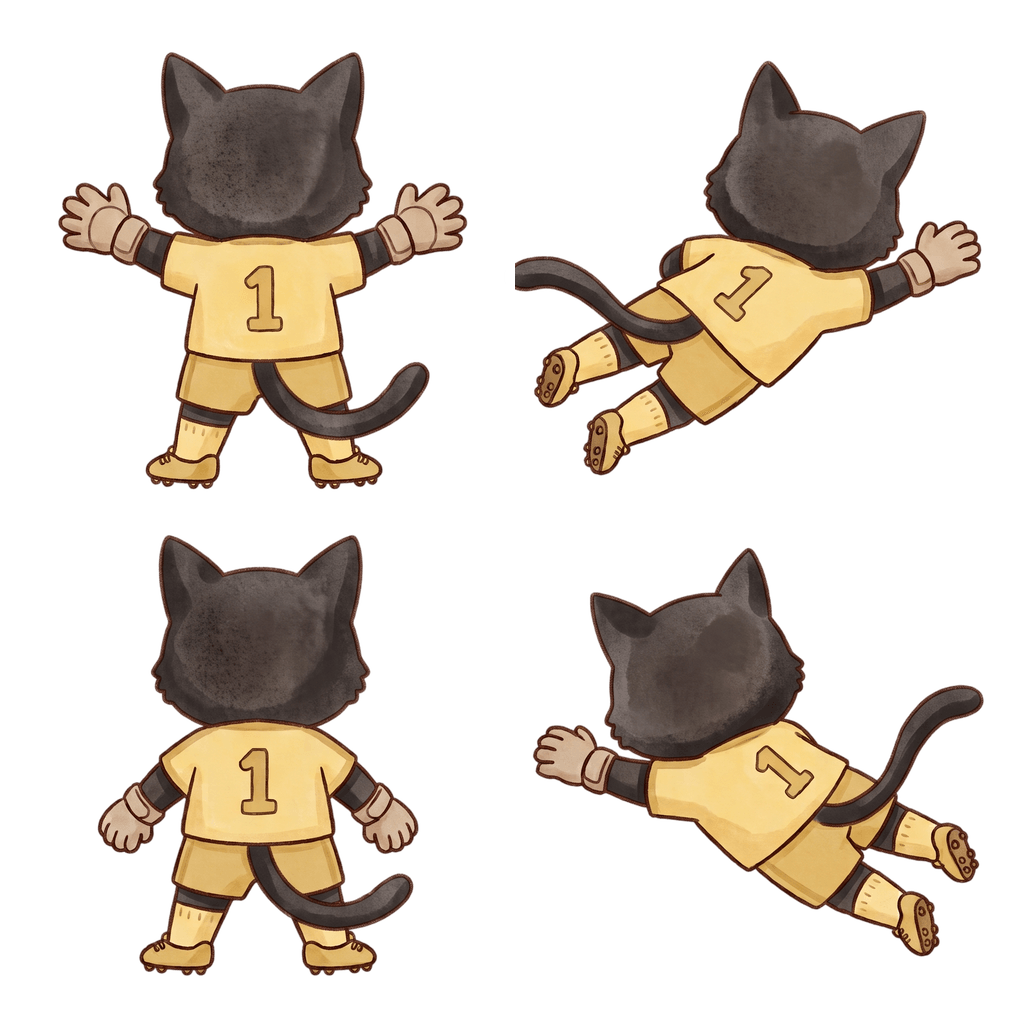
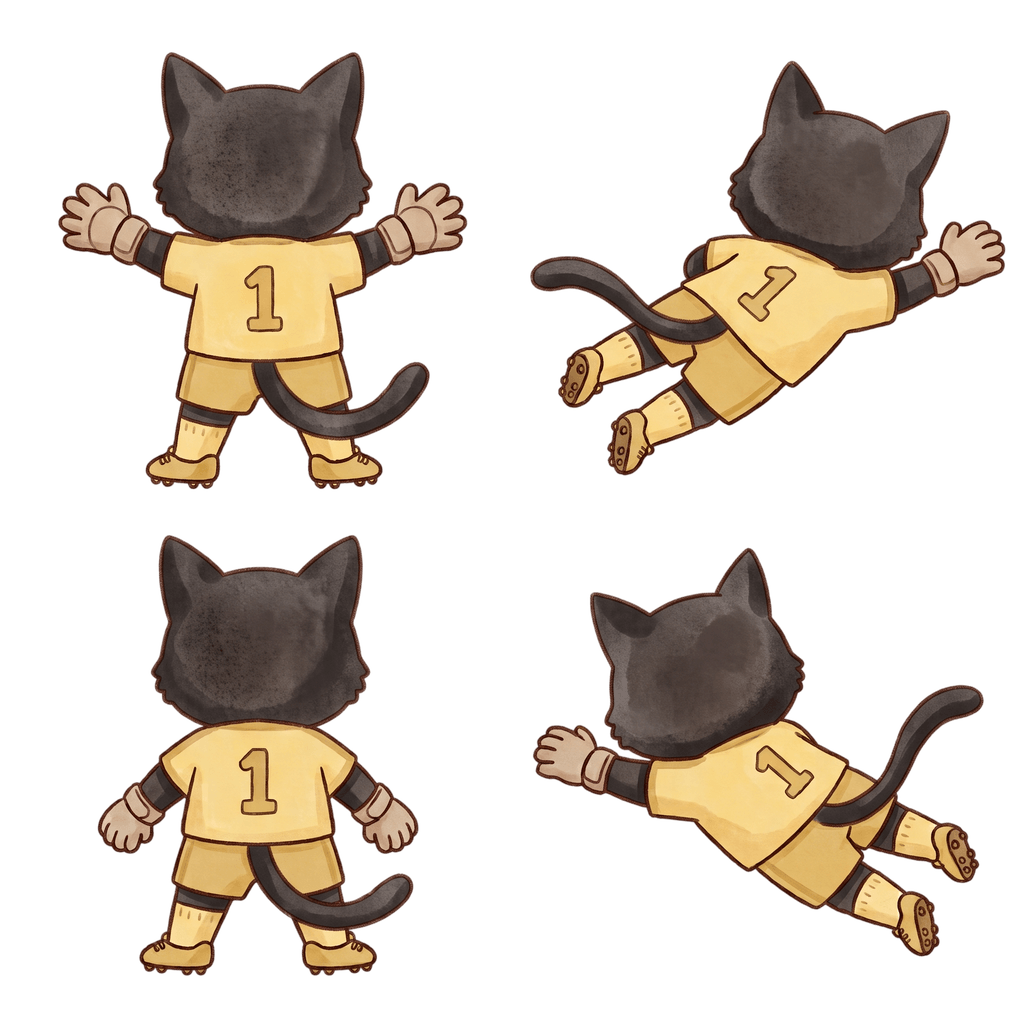
✨ feat: handle bg animation with cloud and update og image

Changed region(s): [[0.5, 0.0625, 1.0, 0.4688]]

diff --git a/src/game/MainGame.ts b/src/game/MainGame.ts
@@ -28,6 +28,10 @@ export class MainGame extends Scene {
   private isTensionMode: boolean = false;
   private bgTintTween?: Phaser.Tweens.Tween;
   private bgMusic?: Phaser.Sound.BaseSound;
+  private skyGraphics!: Phaser.GameObjects.Graphics;
+  private clouds: Phaser.GameObjects.Sprite[] = [];
+  private skyColorProgress: number = 0;
+  private skyColorTween?: Phaser.Tweens.Tween;
 
   constructor() {
     super("MainGame");
@@ -40,6 +44,8 @@ export class MainGame extends Scene {
     this.isGameStarted = false;
     this.isTensionMode = false;
     this.bgTintTween = undefined;
+    this.skyColorProgress = 0;
+    this.skyColorTween = undefined;
 
     // Load initial mute state from localStorage
     const isMuted = localStorage.getItem("game-muted") === "true";
@@ -52,16 +58,33 @@ export class MainGame extends Scene {
     const width = this.cameras.main.width;
     const height = this.cameras.main.height;
 
+    // Sky Background
+    this.skyGraphics = this.add.graphics();
+    this.skyGraphics.setDepth(-2);
+
+    // Clouds Spawning
+    this.clouds = [];
+    const cloudCount = 5;
+    for (let i = 0; i < cloudCount; i++) {
+      const frameVal = Phaser.Math.Between(0, 3);
+      const cloud = this.add.sprite(0, 0, "clouds", frameVal);
+      cloud.setDepth(-1);
+      this.clouds.push(cloud);
+    }
+
     // Background
     this.bg = this.add.image(width / 2, height / 2, "bg_stadium");
+    this.bg.setDepth(0);
 
     // Goalkeeper (at the bottom)
     this.goalkeeper = this.add.sprite(width / 2, height - 150, "goalkeeper", 2);
     this.goalkeeper.setOrigin(0.5, 1); // Anchor at bottom center
+    this.goalkeeper.setDepth(2);
 
     // Kicker (at the middle-top, standing on the pitch)
     this.kicker = this.add.sprite(width / 2, height * 0.6, "kicker", 0);
     this.kicker.setOrigin(0.5, 1);
+    this.kicker.setDepth(1);
 
     // Register kicker animations
     this.anims.create({
@@ -151,6 +174,11 @@ export class MainGame extends Scene {
   }
 
   updateLayout(width: number, height: number) {
+    this.drawSky();
+    this.clouds.forEach(cloud => {
+      this.animateCloud(cloud, false);
+    });
+
     this.bg.setPosition(width / 2, height / 2);
     const scaleX = width / this.bg.width;
     const scaleY = height / this.bg.height;
@@ -247,6 +275,19 @@ export class MainGame extends Scene {
       const remaining = this.timer;
       const intensity = GAME_CONSTANTS.TENSION_SHAKE_BASE_INTENSITY - (remaining * 0.001);
       this.cameras.main.shake(1000, Math.max(0.001, intensity));
+
+      // Sky sunset gradient transition
+      if (!this.skyColorTween) {
+        this.skyColorTween = this.tweens.add({
+          targets: this,
+          skyColorProgress: 1.0,
+          duration: 2000, // Transition to red sunset over 2 seconds
+          ease: "Quad.easeOut",
+          onUpdate: () => {
+            this.drawSky();
+          }
+        });
+      }
 
       // Background pulsing orange-red (桔紅色) tint tween
       if (!this.bgTintTween) {
@@ -367,6 +408,7 @@ export class MainGame extends Scene {
       football.setScale(minScale); // Very small at start
       football.clearTint();
       football.rotation = 0;
+      football.setDepth(1.5); // One layer above kicker (depth 1), but below goalkeeper (depth 2)
 
       // Hitbox padding for mobile (放寬為寬度的 1.5 倍以降低點擊難度)
       // Reuse the sharedHitArea to prevent Geometry instantiation per spawn
@@ -609,5 +651,89 @@ export class MainGame extends Scene {
     if (this.goalkeeper) {
       this.goalkeeper.setScale(this.gkBaseScale);
     }
+  }
+
+  private drawSky() {
+    const width = this.cameras.main.width;
+    const height = this.cameras.main.height;
+
+    // Daylight sky colors (vibrant summer daylight blue gradient)
+    const normalTop = 0x0288d1;
+    const normalBottom = 0x81d4fa;
+
+    // Sunset tension sky colors
+    const tensionTop = 0x1f0212;
+    const tensionBottom = 0xd84315;
+
+    const t = this.skyColorProgress;
+    const topColor = this.interpolateColor(normalTop, tensionTop, t);
+    const bottomColor = this.interpolateColor(normalBottom, tensionBottom, t);
+
+    this.skyGraphics.clear();
+    this.skyGraphics.fillGradientStyle(topColor, topColor, bottomColor, bottomColor, 1);
+    this.skyGraphics.fillRect(0, 0, width, height);
+  }
+
+  private interpolateColor(color1: number, color2: number, t: number): number {
+    const r1 = (color1 >> 16) & 0xff;
+    const g1 = (color1 >> 8) & 0xff;
+    const b1 = color1 & 0xff;
+
+    const r2 = (color2 >> 16) & 0xff;
+    const g2 = (color2 >> 8) & 0xff;
+    const b2 = color2 & 0xff;
+
+    const r = Math.floor(r1 + (r2 - r1) * t);
+    const g = Math.floor(g1 + (g2 - g1) * t);
+    const b = Math.floor(b1 + (b2 - b1) * t);
+
+    return (r << 16) | (g << 8) | b;
+  }
+
+  private animateCloud(cloud: Phaser.GameObjects.Sprite, startFromLeft: boolean) {
+    const width = this.cameras.main.width;
+    const height = this.cameras.main.height;
+
+    // Randomize cloud scale (1200px width is too large, scaling to 0.08 - 0.22)
+    const scale = Phaser.Math.FloatBetween(0.08, 0.22);
+    cloud.setScale(scale);
+
+    // Randomize opacity
+    cloud.setAlpha(Phaser.Math.FloatBetween(0.3, 0.8));
+
+    // Randomize Y position in the sky (between 5% and 40% height of screen)
+    const y = Phaser.Math.FloatBetween(height * 0.05, height * 0.4);
+    cloud.setY(y);
+
+    const cloudWidth = cloud.width * scale;
+    let startX: number;
+    if (startFromLeft) {
+      startX = -cloudWidth / 2;
+    } else {
+      // For initial setup / resize updates, distribute clouds randomly across screen width
+      startX = Phaser.Math.FloatBetween(-cloudWidth / 2, width + cloudWidth / 2);
+    }
+    cloud.setX(startX);
+
+    const endX = width + cloudWidth / 2;
+    const distance = endX - startX;
+
+    // Speed scales with scale for parallax effect (bigger clouds move faster)
+    const speed = scale * 120 + 15; // px per second
+    const duration = (distance / speed) * 1000; // in milliseconds
+
+    this.tweens.killTweensOf(cloud);
+
+    this.tweens.add({
+      targets: cloud,
+      x: endX,
+      duration: duration,
+      ease: "Linear",
+      onComplete: () => {
+        // Change frame to random cloud style on recycle, and start from offscreen left
+        cloud.setFrame(Phaser.Math.Between(0, 3));
+        this.animateCloud(cloud, true);
+      }
+    });
   }
 }

diff --git a/index.html b/index.html
@@ -3,8 +3,14 @@
   <head>
     <meta charset="UTF-8" />
     <link rel="icon" type="image/png" href="/favicon.png" />
-    <meta name="viewport" content="width=device-width, initial-scale=1.0, viewport-fit=cover" />
-    <meta name="description" content="Football Save - Tap to save the incoming footballs! A cute cartoon-style mobile football mini-game." />
+    <meta
+      name="viewport"
+      content="width=device-width, initial-scale=1.0, viewport-fit=cover"
+    />
+    <meta
+      name="description"
+      content="Football Save - Tap to save the incoming footballs! A cute cartoon-style mobile football mini-game."
+    />
     <meta name="author" content="Roy Sung" />
     <meta name="designer" content="Roy Sung" />
     <meta name="owner" content="Roy Sung" />
@@ -13,17 +19,35 @@
 
     <!-- Open Graph / Facebook Metadata -->
     <meta property="og:type" content="website" />
-    <meta property="og:url" content="https://football-save-game.roysunghan.workers.dev/" />
+    <meta
+      property="og:url"
+      content="https://football-save-game.roysunghan.workers.dev/"
+    />
     <meta property="og:title" content="Football Save ⚽" />
-    <meta property="og:description" content="Football Save - Tap to save the incoming footballs! A cute cartoon-style mobile football mini-game." />
-    <meta property="og:image" content="https://football-save-game.roysunghan.workers.dev/assets/og_image.jpg" />
+    <meta
+      property="og:description"
+      content="Football Save - Tap to save the incoming footballs! A cute cartoon-style mobile football mini-game."
+    />
+    <meta
+      property="og:image"
+      content="https://football-save-game.roysunghan.workers.dev/assets/og_image.png"
+    />
 
     <!-- Twitter Card Metadata -->
     <meta name="twitter:card" content="summary_large_image" />
-    <meta name="twitter:url" content="https://football-save-game.roysunghan.workers.dev/" />
+    <meta
+      name="twitter:url"
+      content="https://football-save-game.roysunghan.workers.dev/"
+    />
     <meta name="twitter:title" content="Football Save ⚽" />
-    <meta name="twitter:description" content="Football Save - Tap to save the incoming footballs! A cute cartoon-style mobile football mini-game." />
-    <meta name="twitter:image" content="https://football-save-game.roysunghan.workers.dev/assets/og_image.jpg" />
+    <meta
+      name="twitter:description"
+      content="Football Save - Tap to save the incoming footballs! A cute cartoon-style mobile football mini-game."
+    />
+    <meta
+      name="twitter:image"
+      content="https://football-save-game.roysunghan.workers.dev/assets/og_image.png"
+    />
 
     <title>Football Save ⚽</title>
   </head>

diff --git a/src/components/GameOverScreen.tsx b/src/components/GameOverScreen.tsx
@@ -110,7 +110,7 @@ export function GameOverScreen({
                   placeholder={t("leaderboard.nicknamePlaceholder")}
                   className="game-input"
                   maxLength={GAME_CONSTANTS.LEADERBOARD_MAX_NAME_LENGTH}
-                  disabled={submittingScore}
+                  disabled={submittingScore || !showButtons}
                 />
                 {submitError && (
                   <div className="text-red-500 text-xs font-bold mb-2">
@@ -119,7 +119,7 @@ export function GameOverScreen({
                 )}
                 <button
                   onClick={handleSubmitScore}
-                  disabled={submittingScore || !nickname.trim()}
+                  disabled={submittingScore || !nickname.trim() || !showButtons}
                   className="game-btn game-btn-secondary py-2 px-6 text-md w-full"
                 >
                   {submittingScore ? t("leaderboard.submitting") : t("leaderboard.submit")}
@@ -143,6 +143,7 @@ export function GameOverScreen({
                 loadLeaderboard();
                 setViewState("leaderboard");
               }}
+              disabled={!showButtons}
               className={`game-btn game-btn-primary py-2.5 px-6 text-md w-[85%] mt-2 ${delayedBtnClass}`}
             >
               {t("leaderboard.title")}
@@ -163,6 +164,7 @@ export function GameOverScreen({
             {/* Back to Summary Button */}
             <button
               onClick={() => setViewState("summary")}
+              disabled={!showButtons}
               className={`game-btn game-btn-secondary py-2.5 px-6 text-md w-[85%] mt-2 ${delayedBtnClass}`}
             >
               {t("backToMenu")}
@@ -181,6 +183,7 @@ export function GameOverScreen({
         <div className={`footer-btn-container ${delayedBtnClass}`}>
           <button
             onClick={restartGame}
+            disabled={!showButtons}
             className="btn-round-cyan"
             title={t("restartGame")}
           >
@@ -190,6 +193,7 @@ export function GameOverScreen({
           </button>
           <button
             onClick={backToMenu}
+            disabled={!showButtons}
             className="btn-round-cyan"
             title={t("backToMenu")}
           >

diff --git a/src/game/BootScene.ts b/src/game/BootScene.ts
@@ -11,6 +11,7 @@ export class BootScene extends Scene {
     const v = APP_VERSION; // use package.json version to allow browser caching
     this.load.image("bg_stadium", `/assets/bg_stadium.png?v=${v}`);
     this.load.image("football", `/assets/football.png?v=${v}`);
+    this.load.image("clouds", `/assets/cloud-sprite.png?v=${v}`);
     this.load.spritesheet("goalkeeper", `/assets/goalkeeper_sheet.png?v=${v}`, {
       frameWidth: 512,
       frameHeight: 512,
@@ -24,6 +25,15 @@ export class BootScene extends Scene {
   }
 
   create() {
+    const texture = this.textures.get("clouds");
+    if (texture) {
+      // Define custom frames to avoid clipping the sleeping cat (Frame 3)
+      // and align the clouds perfectly based on pixel bounds analysis
+      texture.add(0, 0, 310, 122, 598, 396);
+      texture.add(1, 0, 1364, 112, 928, 406);
+      texture.add(2, 0, 75, 712, 1068, 558);
+      texture.add(3, 0, 1334, 609, 981, 663);
+    }
     this.scene.start("MainGame");
   }
 }

diff --git a/src/game/PhaserGame.tsx b/src/game/PhaserGame.tsx
@@ -8,12 +8,14 @@ export const PhaserGame = memo(() => {
     useEffect(() => {
         if (!gameRef.current) {
             gameRef.current = new Game(config);
+            (window as any).game = gameRef.current;
         }
 
         return () => {
             if (gameRef.current) {
                 gameRef.current.destroy(true);
                 gameRef.current = null;
+                delete (window as any).game;
             }
         };
     }, []);

diff --git a/src/App.css b/src/App.css
@@ -1029,3 +1029,16 @@
   width: 16px;
   height: 16px;
 }
+
+/* Disabled button interactions and styling */
+.game-btn:disabled,
+.btn-round-cyan:disabled {
+  pointer-events: none !important;
+  cursor: not-allowed;
+  transform: none !important;
+}
+
+.game-btn:disabled {
+  opacity: 0.6;
+}
+

diff --git a/src/constants.ts b/src/constants.ts
@@ -63,7 +63,7 @@ export const GAME_CONSTANTS = {
   FEEDBACK_GOOD: 5,
 
   // Button delay on game over screen
-  GAME_OVER_BUTTONS_DELAY: 1000, // ms
+  GAME_OVER_BUTTONS_DELAY: 1200, // ms
 
   // High-tension settings (last 10 seconds)
   TENSION_TIME_THRESHOLD: 10, // seconds
